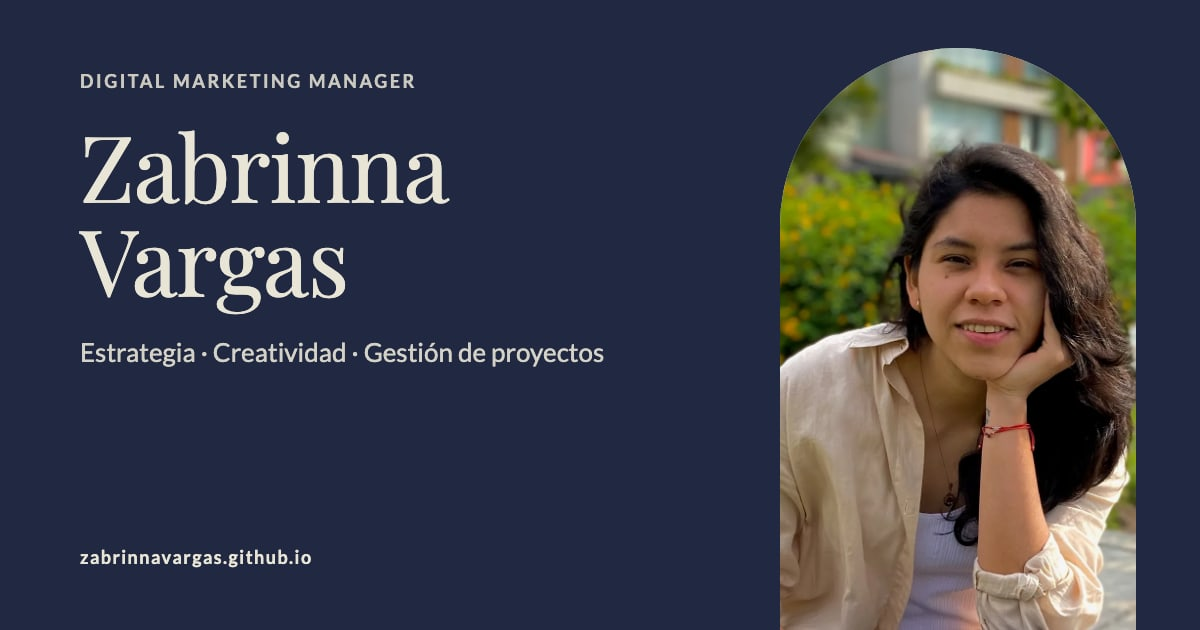
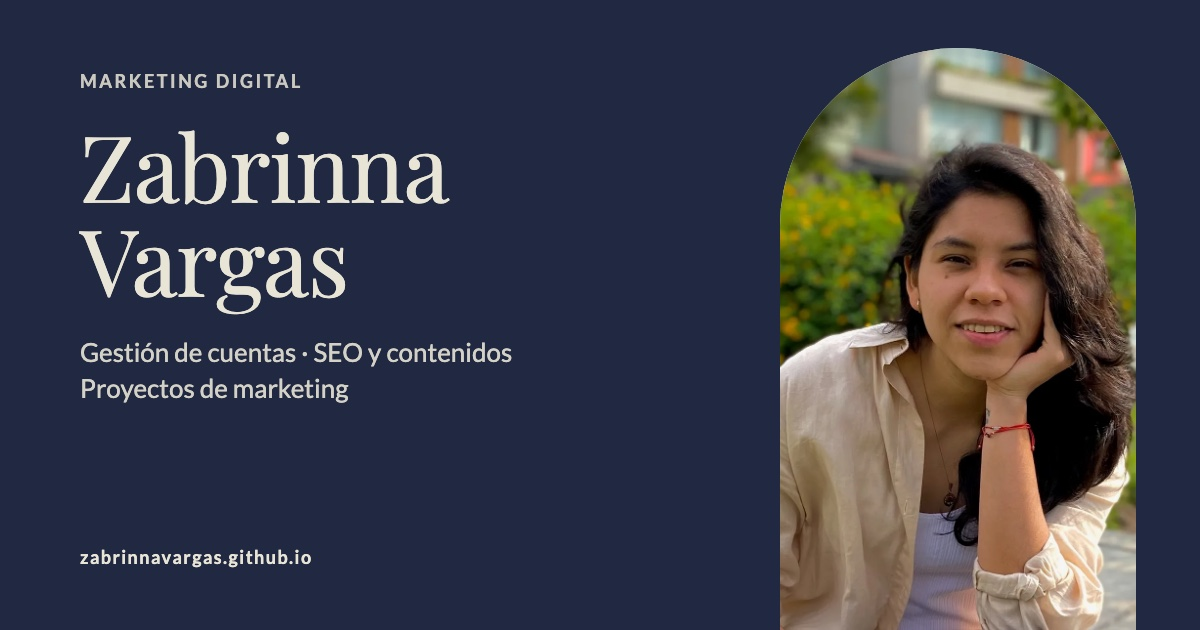
content: titular neutro para los tres perfiles de CV

Changed region(s): [[0.0617, 0.5429, 0.5242, 0.6333], [0.0617, 0.1206, 0.3392, 0.1508]]

diff --git a/src/styles/global.css b/src/styles/global.css
@@ -84,7 +84,8 @@ figcaption{font:var(--fs-label)/1.5 var(--sans);padding:var(--s-3) var(--s-4);ba
 .home-hero{display:grid;grid-template-columns:1fr 1fr;grid-template-rows:auto 1fr;gap:var(--s-5) var(--col-gap);padding-block:var(--s-8);align-items:start}
 .hero-identity h1{font-size:var(--fs-display);line-height:1}
 .hero-copy{grid-column:1;grid-row:2;max-width:48ch;align-self:start}
-.hero-keywords{margin-bottom:var(--s-4)}
+.hero-keywords{margin-bottom:var(--s-4);text-wrap:balance}
+.hero-keywords span{white-space:nowrap}
 .hero-work{grid-column:2;grid-row:1/span 2;align-self:stretch}
 .hero-work .project-visual{border-radius:var(--radius-arch) var(--radius-arch) var(--radius-md) var(--radius-md);background:var(--apricot)}
 .hero-work .project-visual img{aspect-ratio:1.2}

diff --git a/src/site.ts b/src/site.ts
@@ -2,8 +2,8 @@ export const site = {
   name: 'Zabrinna Vargas Antinori',
   // Nombre corto para el título de la pestaña y al compartir.
   shortName: 'Zabrinna Vargas',
-  discipline: 'Digital Marketing Manager',
-  description: 'Portfolio de Zabrinna Vargas Antinori: estrategia digital, contenido y SEO, creatividad y coordinación de proyectos de marketing, contados caso a caso.',
+  discipline: 'Marketing digital',
+  description: 'Portfolio de Zabrinna Vargas Antinori: marketing digital, gestión de cuentas, SEO y contenidos y coordinación de proyectos, contados caso a caso.',
 };
 
 export const areas = [
